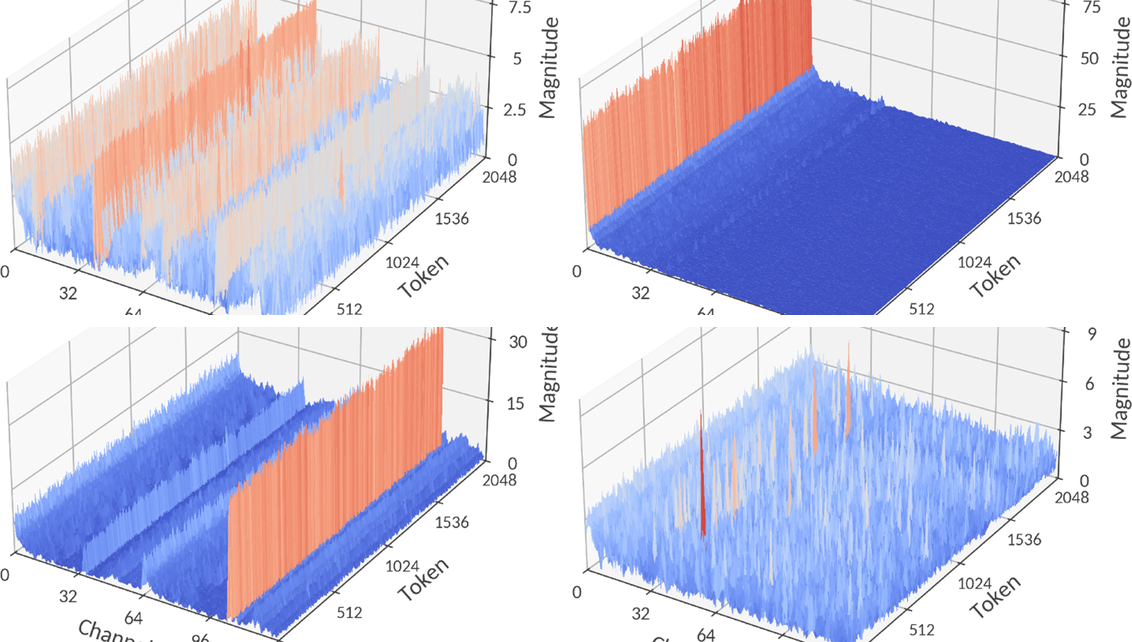
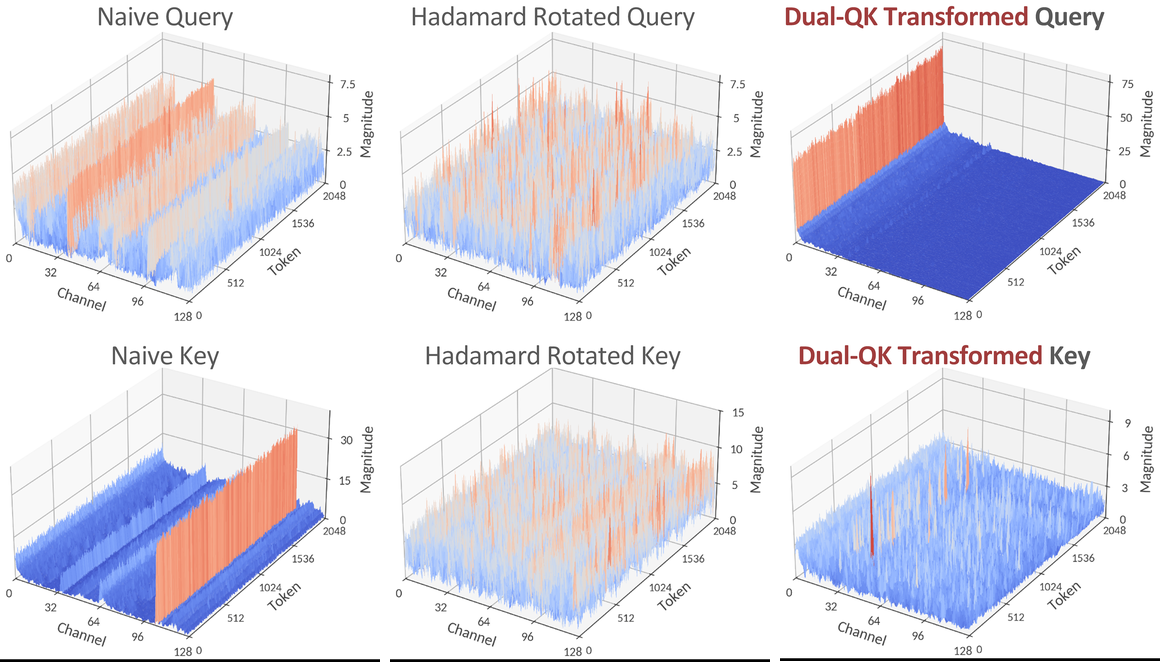
Unify heading font, tighten section spacing, 2x3 Dual-QK thumbnail
- All headings use Poppins (was Playfair Display), section titles 600
- Section padding 60px -> 36px, title spacing 30px -> 16px
- Research Interests: small icon above each accent bar
- Dual-QK thumbnail: six uncropped panels (Naive / Hadamard / Dual-QK
  for Query and Key) laid out 2x3, which is naturally 16:9

diff --git a/index.html b/index.html
@@ -214,6 +214,8 @@
 
           <div class="col-md-6 col-lg-3">
             <div class="interest">
+              <i class="bx bx-cube-alt"></i>
+              <span class="bar"></span>
               <h4>3D Vision and Digital Twin Systems</h4>
               <p>Human & Scene Reconstruction, 3D Gaussian Splatting, Physical World Modeling</p>
             </div>
@@ -221,6 +223,8 @@
 
           <div class="col-md-6 col-lg-3">
             <div class="interest">
+              <i class="bx bx-bot"></i>
+              <span class="bar"></span>
               <h4>Embodied Perception and Physical AI</h4>
               <p>Physically Interactive Avatars, Human Motion Modeling, Vision-based Perception for Robotic Systems and Edge AI Deployment</p>
             </div>
@@ -228,6 +232,8 @@
 
           <div class="col-md-6 col-lg-3">
             <div class="interest">
+              <i class="bi bi-image"></i>
+              <span class="bar"></span>
               <h4>Computational Photography</h4>
               <p>Camera ISP Modeling, Image Restoration, Image Harmonization</p>
             </div>
@@ -235,6 +241,8 @@
 
           <div class="col-md-6 col-lg-3">
             <div class="interest">
+              <i class="bi bi-magic"></i>
+              <span class="bar"></span>
               <h4>Generative AI for Visual Content Creation</h4>
               <p>Diffusion-based Image/Video Enhancement, Video Color Grading</p>
             </div>

diff --git a/assets/css/style.css b/assets/css/style.css
@@ -30,7 +30,7 @@ h3,
 h4,
 h5,
 h6 {
-  font-family: "Playfair Display", serif;
+  font-family: "Poppins", sans-serif;
 }
 
 /*--------------------------------------------------------------
@@ -397,7 +397,7 @@ h6 {
 # Sections General
 --------------------------------------------------------------*/
 section {
-  padding: 60px 0;
+  padding: 36px 0;
 }
 
 .section-bg {
@@ -405,12 +405,12 @@ section {
 }
 
 .section-title {
-  padding-bottom: 30px;
+  padding-bottom: 16px;
 }
 
 .section-title h2 {
-  font-size: 32px;
-  font-weight: bold;
+  font-size: 30px;
+  font-weight: 600;
   margin-bottom: 15px;
   padding-bottom: 15px;
   position: relative;
@@ -799,8 +799,15 @@ section {
   height: 100%;
 }
 
-.services .interest::before {
-  content: "";
+.services .interest > i {
+  display: block;
+  font-size: 22px;
+  line-height: 1;
+  color: #d43076;
+  margin-bottom: 8px;
+}
+
+.services .interest .bar {
   display: block;
   width: 28px;
   height: 3px;
